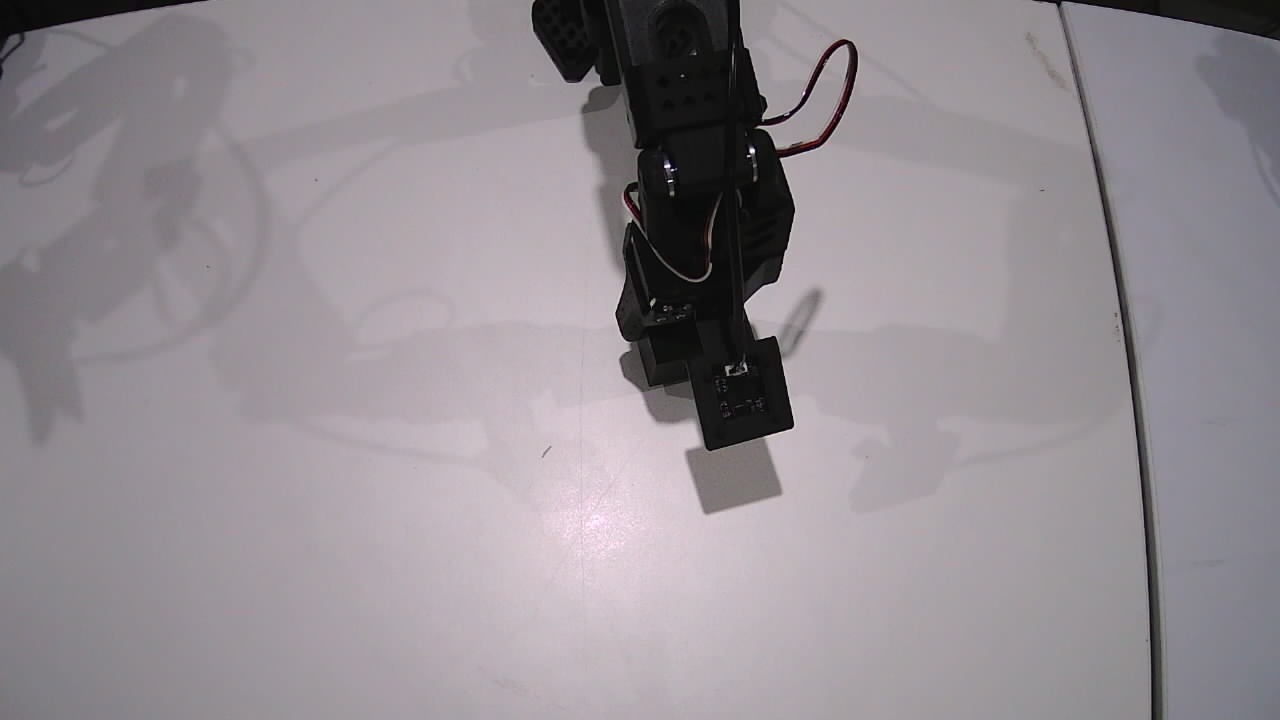
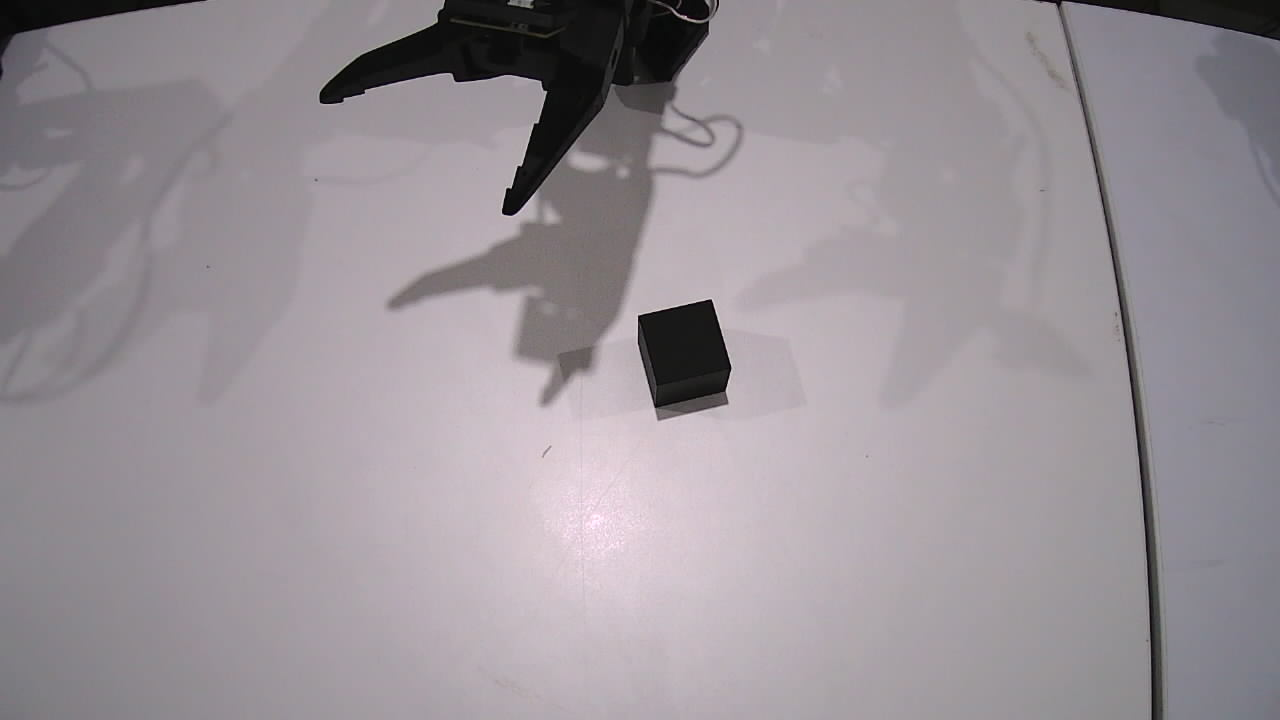
Update tools for arm-006__gpt-6-astra__grasp-cube
{"agent_id": "arm-006__gpt-6-astra__grasp-cube", "baseline_sha256": "6df93a20a05a3dc1a156aa3b51eb1788e2ddcd91056a577397b979b7e33a31ed", "baseline_version": 1, "designation": "arm-006", "experiment_id": "60ddc167-ccd2-416f-ad08-ab3b06d545fc", "fleet_database_enabled": false, "freshness_version": 2, "identity_version": 2, "model": "gpt-6-astra", "preserved_sha256": {"calibration/20261005T100921_180531211/intrinsics.json": "4ec6b1a49abda43063976d392ddf66a39353947ce3d08c35a88e17c021954163", "calibration/20261005T100921_180531211/report.json": "c36605c4f486eda36e5b659a6f6428e72a5679222d74ef6550e54b39fe44cb63", "calibration/20261005T100921_180531211/workspace_map.json": "a057358c35ff4d80235ff64e4b2f909b3d933f39c7657a719e535014511e5796", "calibration/20261005T100921_180531211/workspace_map.npz": "05e9f06fb38099b74b4dcf1a233c88bfe3cfc0e95c144da8c173346c2727279a", "calibration/20261005T100921_180531211/workspace_undistorted.png": "0cf381266158cf31f6acf0bc6fbdf818957f14528b1651d3761cc4271ca91053", "calibration/ready.json": "a2b2addfd83165981076a80147577469be26edadaff97f388cc365b77e7f4986", "cameras.json": "343a8b61bbc2d74885ee73db1cb84786681ef9bdfa17db4ff9f7a2ee160c0ef0", "config/motors/arm-006.json": "2e75c66010c99cdd47926348632396d2a4f09bd195ccb8c200f777b70068611f", "home_pose.json": "908e801e509a421a940722512db24462fd5390764e1e33a5464ccec438febb21", "tools/calibrate_workspace.py": "119afb4f6ffb1f3b424724658b6104c288c5db2a34f2b6faaba2ada84d8aaf17"}, "provider": "codex", "reset_at
[…]

diff --git a/agents/arm-006__gpt-6-astra__grasp-cube/CUBE_COLLECTION.md b/agents/arm-006__gpt-6-astra__grasp-cube/CUBE_COLLECTION.md
@@ -6,7 +6,7 @@ Use `/opt/armfarm/venv/bin/python` from the workspace. Read `TOOLS.md` first.
 
 The visual check is specific to the current wrist camera, cube, and home pose: three advancing fresh frames must show a dark cube in the observed space between the jaws. Empty-home checks require that region to clear. The held check also requires nonzero gripper opening, sustained motor load, no fault, and home errors below four degrees. `empty_home_reference.jpg` and `held_home_reference.jpg` are observed reference images. Review evidence images during collection; this is not a general-purpose object detector.
 
-Motion targets are solved against the supplied FK model, validated against live motor calibration, and monitored for physical stops. Pose generation alone does not certify collision-free travel. The tested tabletop approach uses z=0.060 m, release z=0.025 m, pickup z=0.005 m, and nominal downward gripper orientation. Calibration still lacks a measured table-to-robot alignment. Placement can shift the cube; a missed grasp stops collection for fresh visual alignment. Do not blindly retry a failed target.
+Motion targets are solved against the supplied FK model, validated against live motor calibration, and monitored for physical stops. Pose generation alone does not certify collision-free travel. The tested tabletop approach uses z=0.060 m, release z=0.015 m, pickup z=0.005 m, and nominal downward gripper orientation. Calibration still lacks a measured table-to-robot alignment. Placement can shift the cube; a missed grasp stops collection for fresh visual alignment. Do not blindly retry a failed target.
 
 The supplied adaptive gripper controller applies a volatile torque limit and monitors load, current, temperature, and faults. No protection registers or motor calibration are rewritten. Home commands include only the four joints in `home_pose.json`.
 

diff --git a/agents/arm-006__gpt-6-astra__grasp-cube/final_report.md b/agents/arm-006__gpt-6-astra__grasp-cube/final_report.md
@@ -1,0 +1,7 @@
+Collection stopped after repeated gripper temperature-margin guard trips.
+
+30 successful episodes, 24 without recording quality flags, and 9 unsuccessful episodes. Overall rate including setup and recovery: 34.4 successes/hour over 52.4 minutes. Full workspace coverage and the 50/hour target were not achieved.
+
+Cube placed on tabletop and visually confirmed. Arm returned to its four-joint home (maximum error 1.275 degrees). Gripper open with torque disabled for cooling. Recorder inactive; all motor fault bits zero. Last post-release temperature was 49 C; intermittent guard trips remain unresolved and should be investigated before sustained collection resumes. No guard thresholds were relaxed.
+
+Coverage: initial exploratory positions plus near rows and part of middle row of coverage_plan.json. Grid index 21 failed; indices 22–44 remain uncollected. Some earlier planned points needed position corrections. Initial/manual outcomes are in initial_results.json; automatic successes and image evidence references are in collection_log.jsonl.
